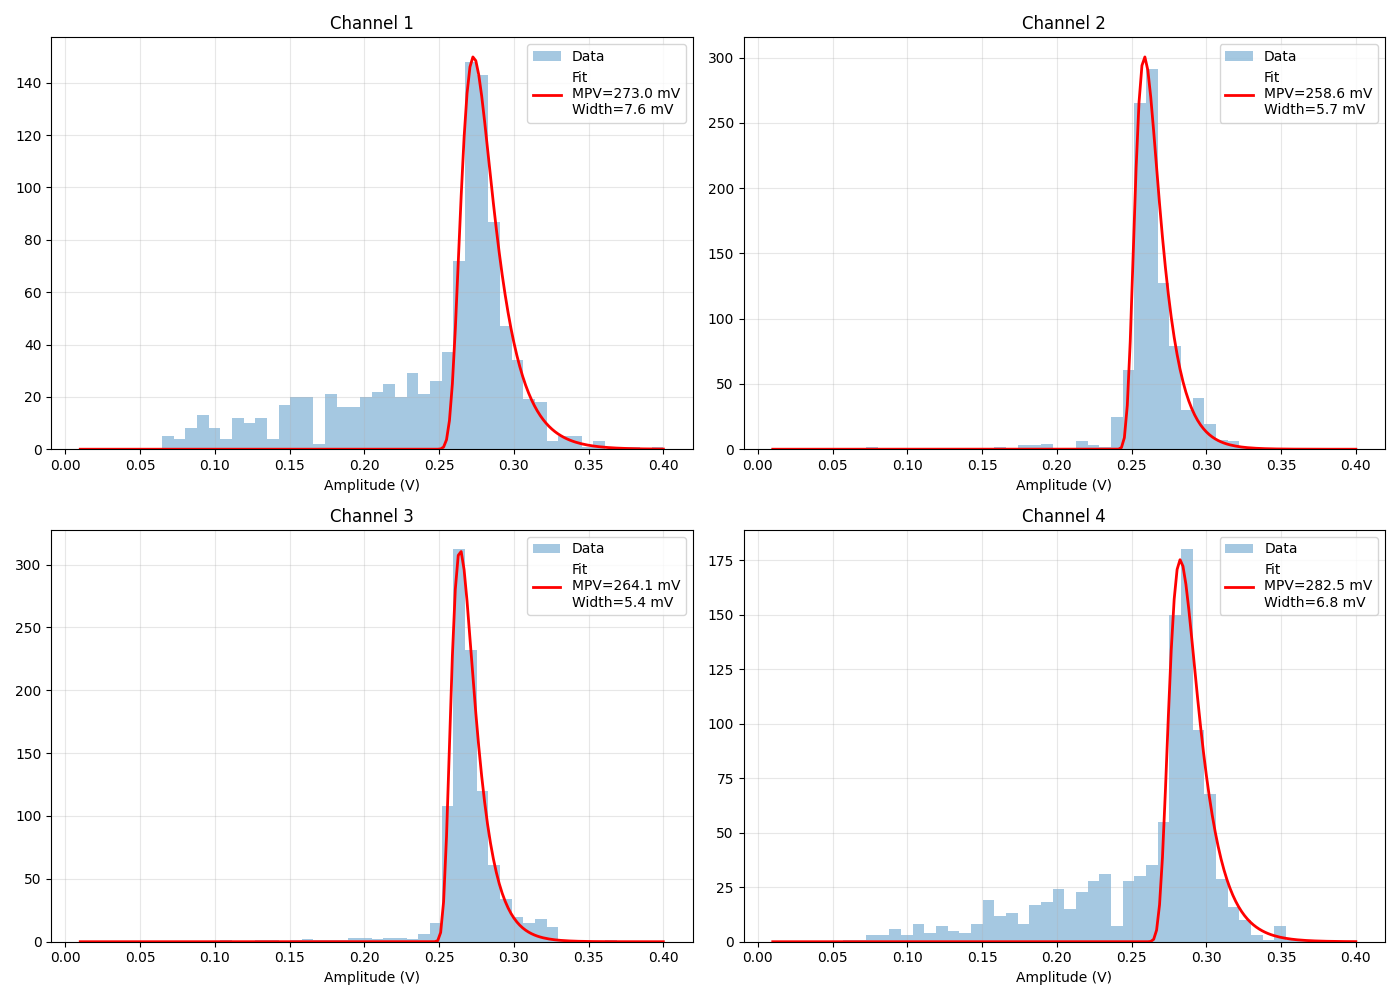
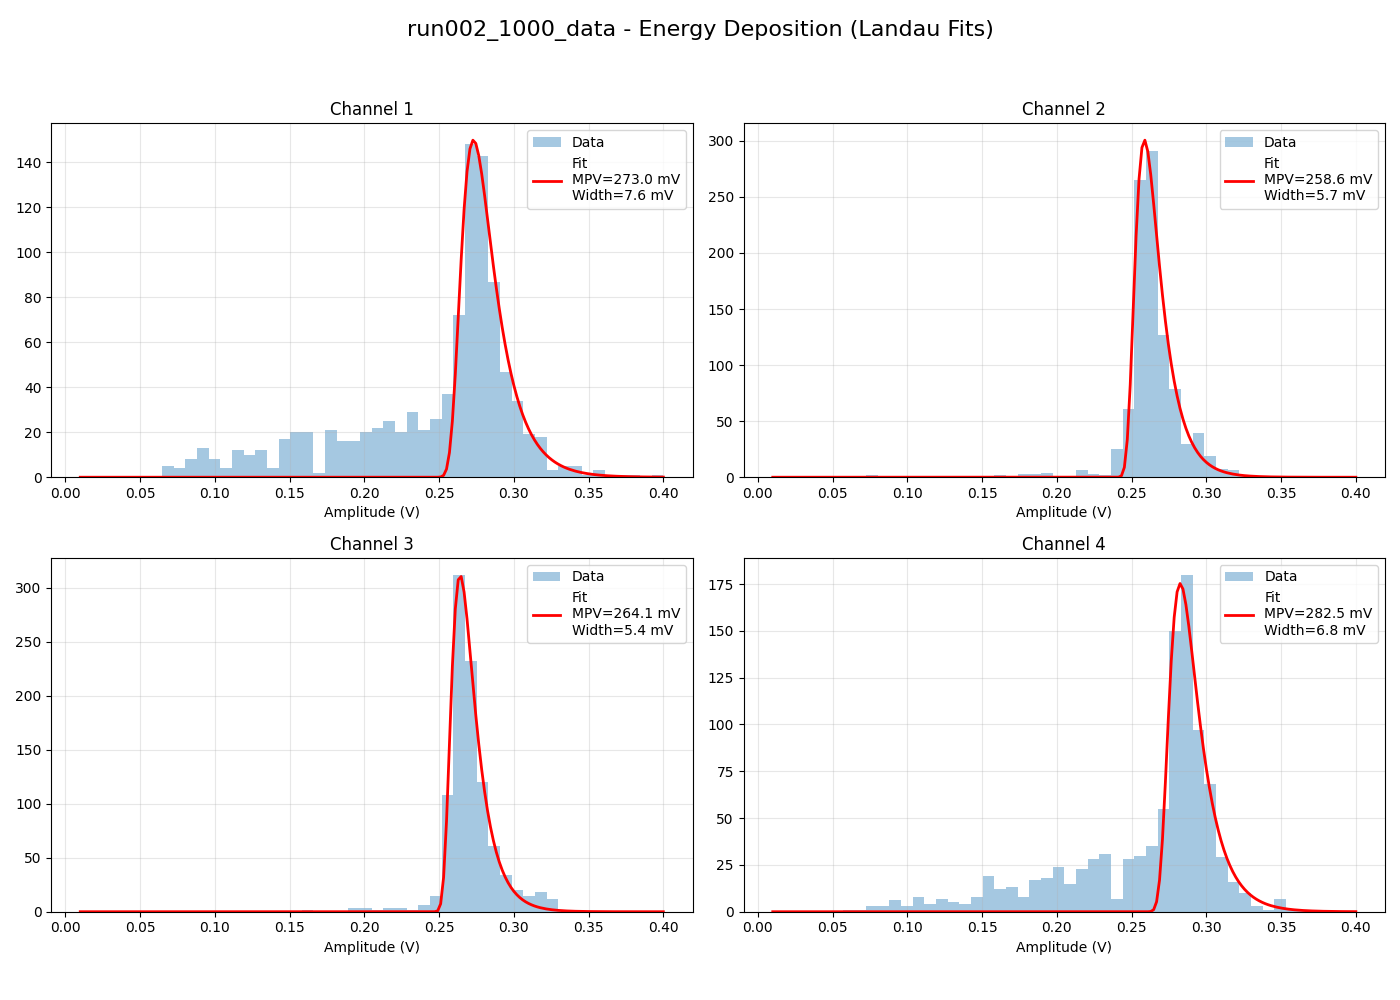
Analyze burst noise (155 event streak) in Run 003 and update plot labels

diff --git a/analysis/analyse_run_1000.py b/analysis/analyse_run_1000.py
@@ -13,10 +13,13 @@ from scipy.optimize import curve_fit
 import os
 import glob
 import sys
+import argparse
+from itertools import groupby
+from operator import itemgetter
 
 # Configuration
-RUN_DIR = "data/run002_1000_data"
-OUTPUT_DIR = "results"
+DEFAULT_RUN_DIR = "data/run002_1000_data"
+DEFAULT_OUTPUT_DIR = "results"
 NOISE_THRESHOLD_V = 0.03 # 30 mV threshold based on observed baseline stats
 LANDAU_RANGE = (0.01, 0.4) # Range for fit (10mV to 400mV)
 BINS = 50
@@ -55,11 +58,37 @@ def read_tek_csv(filepath):
 def landau_fit_func(x, mpv, width, amp):
     return amp * moyal.pdf(x, loc=mpv, scale=width)
 
-def analyze():
-    print(f"Analyzing run directory: {RUN_DIR}")
+def analyze_noise_streaks(noise_events):
+    """
+    Identifies and prints consecutive streaks of noisy events.
+    """
+    if not noise_events:
+        return
+
+    print("\n--- Noise Streak Analysis ---")
+    ranges = []
+    for k, g in groupby(enumerate(noise_events), lambda x: x[0] - x[1]):
+        group = list(map(itemgetter(1), g))
+        if len(group) > 1:
+            ranges.append((group[0], group[-1], len(group)))
+    
+    if ranges:
+        print(f"Found {len(ranges)} streaks of consecutive noise > 1 event.")
+        # Sort by length, descending
+        ranges.sort(key=lambda x: x[2], reverse=True)
+        print("Top 5 Longest Streaks:")
+        for start, end, length in ranges[:5]:
+            print(f"  Events {start}-{end} (Length: {length})")
+    else:
+        print("No consecutive noise streaks found.")
+    print("-----------------------------")
+
+def analyze(run_dir, output_dir):
+    print(f"Analyzing run directory: {run_dir}")
+    run_name = os.path.basename(os.path.normpath(run_dir))
     
     # Locate CSVs
-    csv_files = glob.glob(os.path.join(RUN_DIR, "*_Ch*.csv"))
+    csv_files = glob.glob(os.path.join(run_dir, "*_Ch*.csv"))
     if not csv_files:
         print("No CSV files found.")
         return
@@ -74,7 +103,7 @@ def analyze():
     num_events = 0
     
     for ch in range(1, 5):
-        pattern = os.path.join(RUN_DIR, f"{prefix}_Ch{ch}.csv")
+        pattern = os.path.join(run_dir, f"{prefix}_Ch{ch}.csv")
         files = glob.glob(pattern)
         if not files:
             print(f"Missing file for Ch{ch}")
@@ -126,17 +155,22 @@ def analyze():
     print(f"  Noisy: {len(noise_events)} ({len(noise_events)/num_events:.1%})")
     print(f"  Clean: {len(good_events)}")
     
+    analyze_noise_streaks(noise_events)
+    
     # Plot Noise Examples
     if noise_events:
-        plot_noise_examples(time, data, noise_events[:5], prefix)
+        plot_noise_examples(time, data, noise_events[:5], prefix, output_dir, run_name)
         
     # Plot Landau Fits
-    plot_landau_fits(peaks, prefix)
+    if good_events:
+        plot_landau_fits(peaks, prefix, output_dir, run_name)
 
-def plot_noise_examples(time, data, event_indices, prefix):
+def plot_noise_examples(time, data, event_indices, prefix, output_dir, run_name):
     n = len(event_indices)
     fig, axes = plt.subplots(n, 1, figsize=(10, 3*n), sharex=True)
     if n == 1: axes = [axes]
+    
+    fig.suptitle(f"{run_name} - Noise Check (Threshold > {NOISE_THRESHOLD_V*1000:.0f}mV)", fontsize=16)
     
     for i, idx in enumerate(event_indices):
         ax = axes[i]
@@ -150,15 +184,17 @@ def plot_noise_examples(time, data, event_indices, prefix):
         if i == 0: ax.legend(loc='upper right')
         
     axes[-1].set_xlabel("Time (ns)")
-    plt.tight_layout()
-    out_path = os.path.join(OUTPUT_DIR, f"{prefix}_noise_check.png")
+    plt.tight_layout(rect=[0, 0.03, 1, 0.95]) # Adjust for suptitle
+    out_path = os.path.join(output_dir, f"{prefix}_noise_check.png")
     plt.savefig(out_path)
     print(f"Saved noise check: {out_path}")
     plt.close(fig)
 
-def plot_landau_fits(peaks, prefix):
+def plot_landau_fits(peaks, prefix, output_dir, run_name):
     fig, axes = plt.subplots(2, 2, figsize=(14, 10))
     axes = axes.flatten()
+    
+    fig.suptitle(f"{run_name} - Energy Deposition (Landau Fits)", fontsize=16)
     
     results = []
     
@@ -166,6 +202,10 @@ def plot_landau_fits(peaks, prefix):
         ax = axes[i]
         vals = np.array(peaks[ch])
         
+        if len(vals) == 0:
+            ax.text(0.5, 0.5, "No Data", ha='center', va='center')
+            continue
+            
         # Filter range for plotting/fitting
         vals_fit = vals[(vals >= LANDAU_RANGE[0]) & (vals <= LANDAU_RANGE[1])]
         
@@ -198,12 +238,17 @@ def plot_landau_fits(peaks, prefix):
         ax.legend()
         ax.grid(True, alpha=0.3)
         
-    plt.tight_layout()
-    out_path = os.path.join(OUTPUT_DIR, f"{prefix}_landau_fits.png")
+    plt.tight_layout(rect=[0, 0.03, 1, 0.95]) # Adjust for suptitle
+    out_path = os.path.join(output_dir, f"{prefix}_landau_fits.png")
     plt.savefig(out_path)
     print(f"Saved landau fits: {out_path}")
     plt.close(fig)
 
 if __name__ == "__main__":
-    os.makedirs(OUTPUT_DIR, exist_ok=True)
-    analyze()
+    parser = argparse.ArgumentParser(description="Analyze Run 1000 Data")
+    parser.add_argument("run_dir", nargs='?', default=DEFAULT_RUN_DIR, help="Directory containing CSV files")
+    parser.add_argument("--output", "-o", default=DEFAULT_OUTPUT_DIR, help="Output directory")
+    args = parser.parse_args()
+    
+    os.makedirs(args.output, exist_ok=True)
+    analyze(args.run_dir, args.output)

diff --git a/README.md b/README.md
@@ -31,7 +31,11 @@
      * **Status:** Analyzed 1000 events from the "switched" configuration (Inner/Outer detectors swapped).
      * **Noise/Stability:** Observed significantly higher noise floor compared to Run 002. Mean baseline noise rose to ~50-60mV.
        * Rejection Rate: **27.1% (271/1000)** rejected with the standard 30mV threshold (vs 1.9% in Run 002).
-     * **Results:** Successfully generated Landau fits for the 729 clean events.
+     * **Burst Noise Investigation:**
+       * Identified a major noise burst lasting **155 consecutive events** (Indices 136-290).
+       * Identified a secondary burst of 58 events (Indices 505-562).
+       * This explains the rapid count increase observed during acquisition.
+     * **Results:** Successfully generated Landau fits for the 729 clean events. Plots updated with Run ID labels for clarity.
    * **Run 002 Analysis (1000 events):**
      * **Noise Filtering:** Implemented a threshold-based filter (rejecting events with Max Voltage > 30mV) to remove large positive noise excursions.
        * Result: **19/1000 events (1.9%) rejected** as noise. Confirmed rejected events were indeed artifacts.
